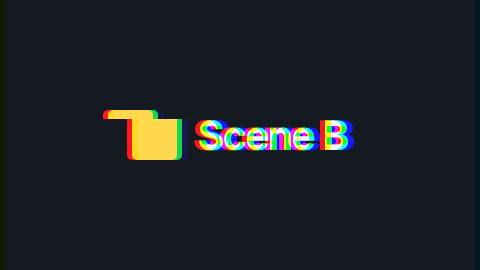
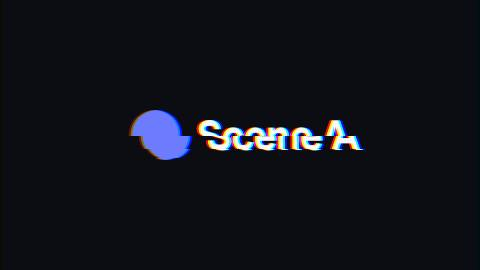
fix(thumbs): thumbFrame for transitions so catalog stills aren't solid fills
Every pair() transition demo held its midpoint at frame 37, inside the
cover-style transition, so brand-sweep, circle-burst, tile-reveal,
shutter, split-doors, card-push, stripe-wipe, slice-slide and glitch
rendered solid or near-white catalog stills. Add an optional
thumbFrame to Demo, set it a quarter into the transition for pair(),
thread it through the Studio composition schema, and have
scripts/thumbs.ts prefer it over the duration midpoint. Also close the
render browser in a finally block so a failed still doesn't leak it.

Changed region(s): [[0.1875, 0.3556, 0.7812, 0.6222]]

diff --git a/scripts/thumbs.ts b/scripts/thumbs.ts
@@ -27,23 +27,28 @@ const perDemo: Job[] = all
   .filter((composition) => composition.id.endsWith("-16x9") && !composition.id.startsWith("sheet-"))
   .map((composition) => ({ id: composition.id, out: composition.id.slice(0, -"-16x9".length) }));
 
-for (const job of [...perDemo, ...fixed]) {
-  const composition = byId.get(job.id);
-  if (!composition) throw new Error(`no composition "${job.id}"`);
-  const output = path.join(OUT, `${job.out}.jpg`);
-  await renderStill({
-    // renderStill renders composition.props; its inputProps option only feeds calculateMetadata.
-    composition: job.theme ? { ...composition, props: { ...composition.props, theme: job.theme } } : composition,
-    serveUrl,
-    frame: job.frame ?? Math.floor(composition.durationInFrames / 2),
-    output,
-    imageFormat: "jpeg",
-    jpegQuality: 72,
-    scale: 0.25,
-    puppeteerInstance: browser,
-  });
-  console.log(`ok   ${output}`);
+try {
+  for (const job of [...perDemo, ...fixed]) {
+    const composition = byId.get(job.id);
+    if (!composition) throw new Error(`no composition "${job.id}"`);
+    const output = path.join(OUT, `${job.out}.jpg`);
+    await renderStill({
+      // renderStill renders composition.props; its inputProps option only feeds calculateMetadata.
+      composition: job.theme ? { ...composition, props: { ...composition.props, theme: job.theme } } : composition,
+      serveUrl,
+      frame:
+        job.frame ??
+        (composition.props.thumbFrame as number | undefined) ??
+        Math.floor(composition.durationInFrames / 2),
+      output,
+      imageFormat: "jpeg",
+      jpegQuality: 72,
+      scale: 0.25,
+      puppeteerInstance: browser,
+    });
+    console.log(`ok   ${output}`);
+  }
+} finally {
+  await browser.close({ silent: true });
 }
-
-await browser.close({ silent: true });
 console.log(`${perDemo.length + fixed.length} thumbnails in ${OUT}`);

diff --git a/registry/demos/transitions.tsx b/registry/demos/transitions.tsx
@@ -79,8 +79,18 @@ function Pair<P extends Record<string, unknown>>({ presentation }: { presentatio
   );
 }
 
+// A quarter into the transition (which spans HOLD_A - TRANSITION .. HOLD_A), not its midpoint: the
+// midpoint of a `cover`-style transition is a solid fill, which makes for a blank catalog thumbnail.
+const THUMB_FRAME = HOLD_A - TRANSITION + Math.round(TRANSITION / 4);
+
 function pair<P extends Record<string, unknown>>(id: string, presentation: TransitionPresentation<P>): Demo {
-  return { id, duration: DURATION, bare: true, component: () => <Pair presentation={presentation} /> };
+  return {
+    id,
+    duration: DURATION,
+    bare: true,
+    thumbFrame: THUMB_FRAME,
+    component: () => <Pair presentation={presentation} />,
+  };
 }
 
 // One reelcn transition and one built into @remotion/transitions: 40 + 45 + 40 - 20 - 15 = 90 frames.

diff --git a/apps/studio/src/Root.tsx b/apps/studio/src/Root.tsx
@@ -15,6 +15,7 @@ const byId = new Map(demos.map((d) => [d.id, d]));
 const demoSchema = z.object({
   demo: z.string(),
   theme: z.enum(themeNames as [ThemeName, ...ThemeName[]]),
+  thumbFrame: z.number().optional(),
 });
 const sheetSchema = demoSchema.extend({ format: z.enum(formats as [Format, ...Format[]]) });
 
@@ -95,7 +96,7 @@ export function Root() {
                     id={`${demo.id}-${format}`}
                     component={DemoView}
                     schema={demoSchema}
-                    defaultProps={{ demo: demo.id, theme: "midnight" as ThemeName }}
+                    defaultProps={{ demo: demo.id, theme: "midnight" as ThemeName, thumbFrame: demo.thumbFrame }}
                     durationInFrames={demo.duration}
                     fps={30}
                     width={FORMATS[format][0]}

diff --git a/registry/demos/index.ts b/registry/demos/index.ts
@@ -17,6 +17,8 @@ export type Demo = {
   component: React.ComponentType;
   /** Set when the component paints its own full-bleed background, so `<Stage>` is skipped. */
   bare?: boolean;
+  /** Frame the thumbnail script stills instead of the midpoint, for demos whose midpoint is a blank/solid frame. */
+  thumbFrame?: number;
 };
 
 // Each category adds one entry. Tasks 3-5 and later plans extend this map.
